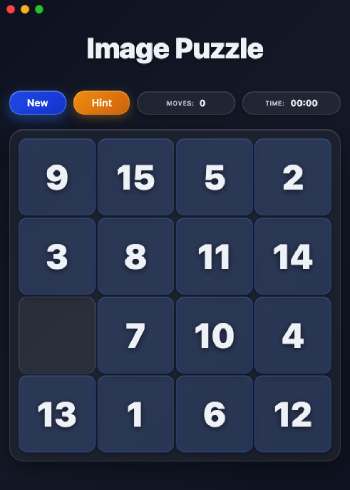
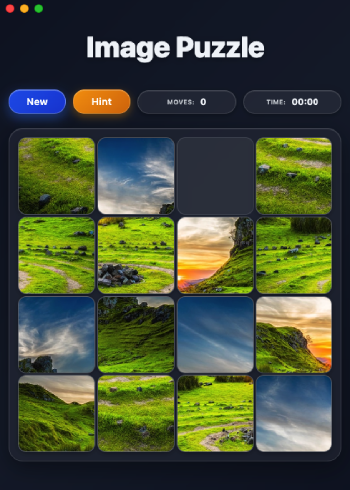
updated screenshot images

diff --git a/README.md b/README.md
@@ -4,9 +4,9 @@ A sliding puzzle game where you reconstruct images.
 
 ## Screenshots
 
-| Gameplay(Number) | Gameplay(Image) | Completed |
+| Gameplay | Completed |
 |----------|----------|-----------|
-| ![Gameplay](screenshot/screen.png) | ![Gameplay](screenshot/screen2.png) | ![Completed](screenshot/complete.png) |
+| ![Gameplay](screenshot/screen.png) | ![Completed](screenshot/complete.png) |
 
 ## How to Run
 
